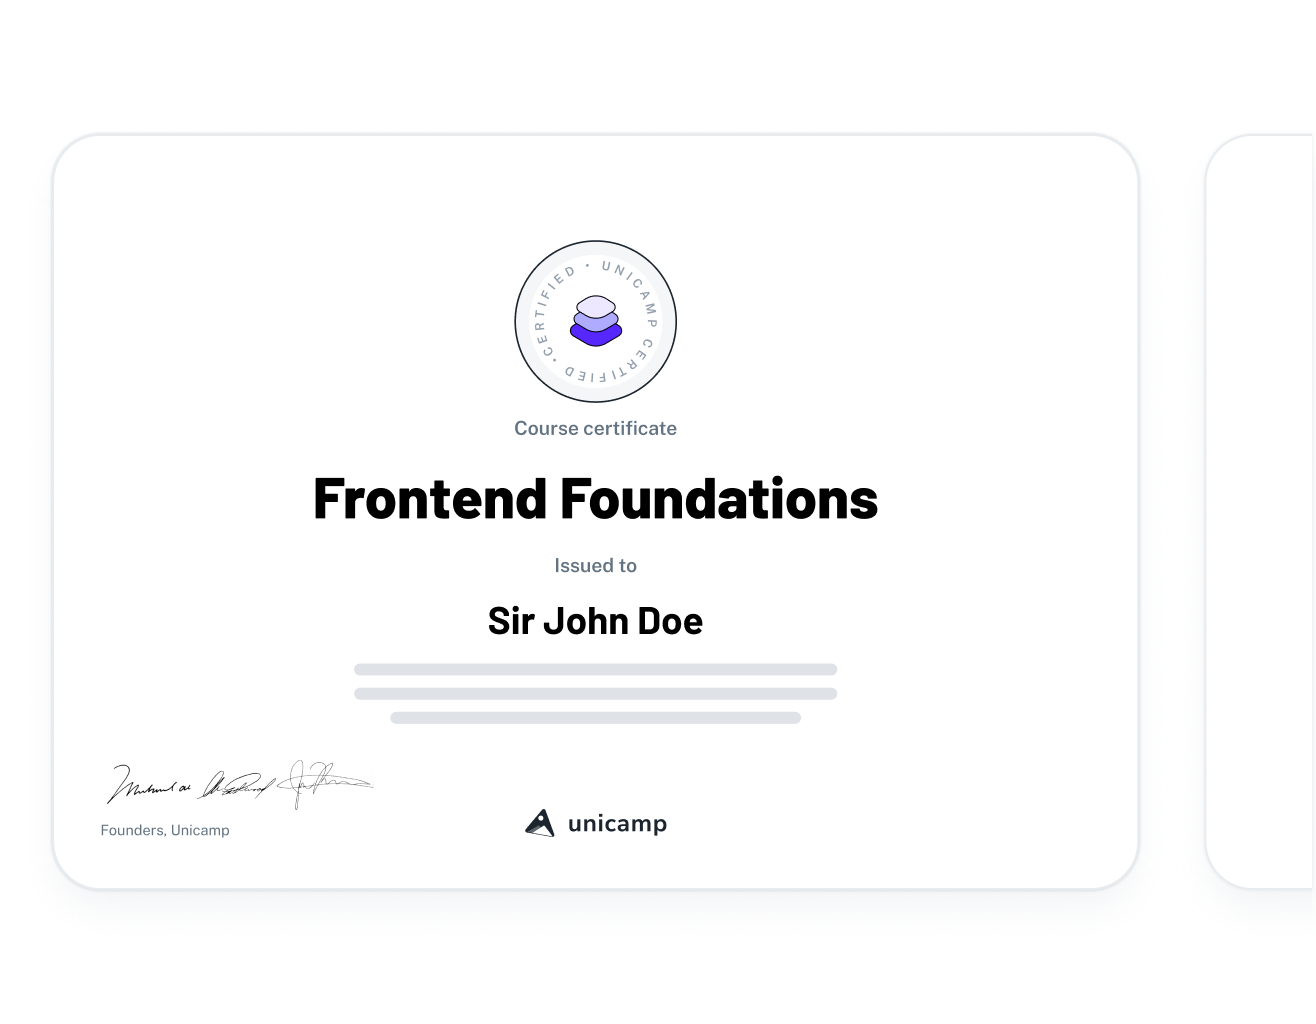
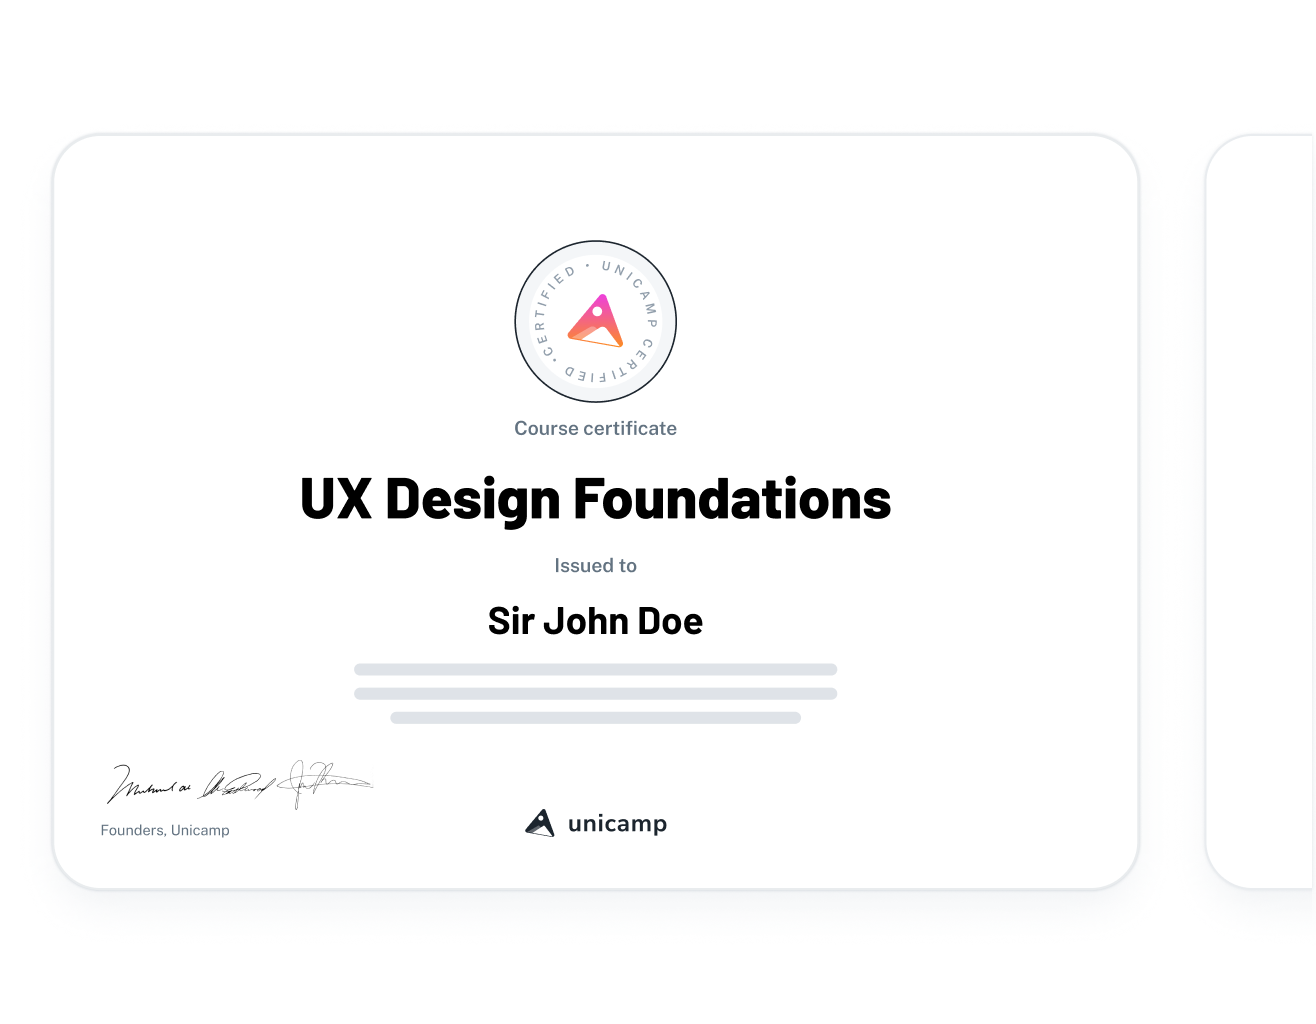
feat: remove top/bottom lines svg, update certificates illustrations

Changed region(s): [[0.2181, 0.4688, 0.6854, 0.5312], [0.4362, 0.2812, 0.4985, 0.3438]]

diff --git a/src/sections/home/home-faqs.tsx b/src/sections/home/home-faqs.tsx
@@ -196,59 +196,13 @@ export function HomeFAQs({ sx, ...other }: BoxProps) {
   return (
     <Box component="section" sx={{ ...sx }} {...other}>
       <MotionViewport sx={{ py: 10, position: 'relative' }}>
-        <TopLines />
-
         <Container>
           {renderDescription}
           {renderContent}
         </Container>
 
-        <Stack sx={{ position: 'relative' }}>
-          <BottomLines />
-          {renderContact}
-        </Stack>
+        {renderContact}
       </MotionViewport>
     </Box>
-  );
-}
-
-// ----------------------------------------------------------------------
-
-function TopLines() {
-  return (
-    <>
-      <Stack
-        spacing={8}
-        alignItems="center"
-        sx={{
-          top: 64,
-          left: 80,
-          position: 'absolute',
-          transform: 'translateX(-15px)',
-        }}
-      >
-        <FloatTriangleDownIcon sx={{ position: 'static', opacity: 0.12 }} />
-        <FloatTriangleDownIcon
-          sx={{
-            position: 'static',
-            opacity: 0.24,
-            width: 30,
-            height: 15,
-          }}
-        />
-      </Stack>
-      <FloatLine vertical sx={{ top: 0, left: 80 }} />
-    </>
-  );
-}
-
-function BottomLines() {
-  return (
-    <>
-      <FloatLine sx={{ top: 0, left: 0 }} />
-      <FloatLine sx={{ bottom: 0, left: 0 }} />
-      <FloatPlusIcon sx={{ top: -8, left: 72 }} />
-      <FloatPlusIcon sx={{ bottom: -8, left: 72 }} />
-    </>
   );
 }

diff --git a/src/sections/home/home-unicamp.tsx b/src/sections/home/home-unicamp.tsx
@@ -61,43 +61,11 @@ export function HomeUnicamp({ sx, ...other }: BoxProps) {
   return (
     <Box component="section" sx={{ ...sx }} {...other}>
       <MotionViewport sx={{ pt: 10, position: 'relative' }}>
-        <TopLines />
-
         <Container>
           {renderDescription}
           {renderContent}
         </Container>
       </MotionViewport>
     </Box>
-  );
-}
-
-// ----------------------------------------------------------------------
-
-function TopLines() {
-  return (
-    <>
-      <Stack
-        spacing={8}
-        alignItems="center"
-        sx={{
-          top: 64,
-          left: 80,
-          position: 'absolute',
-          transform: 'translateX(-15px)',
-        }}
-      >
-        <FloatTriangleDownIcon sx={{ position: 'static', opacity: 0.12 }} />
-        <FloatTriangleDownIcon
-          sx={{
-            position: 'static',
-            opacity: 0.24,
-            width: 30,
-            height: 15,
-          }}
-        />
-      </Stack>
-      <FloatLine vertical sx={{ top: 0, left: 80 }} />
-    </>
   );
 }
